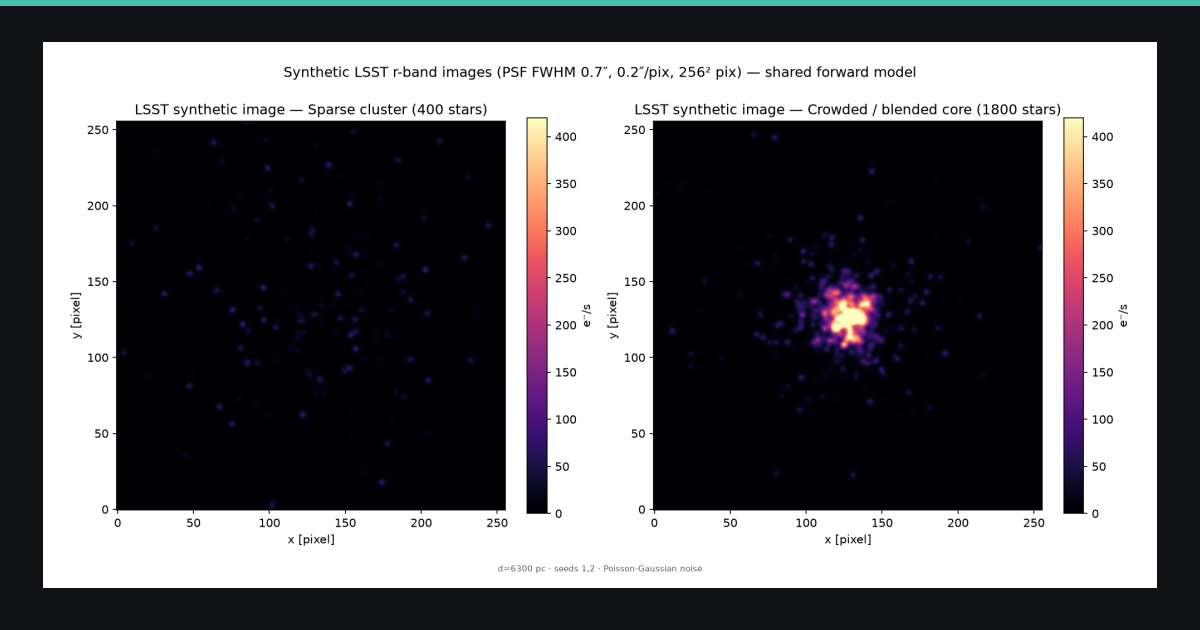
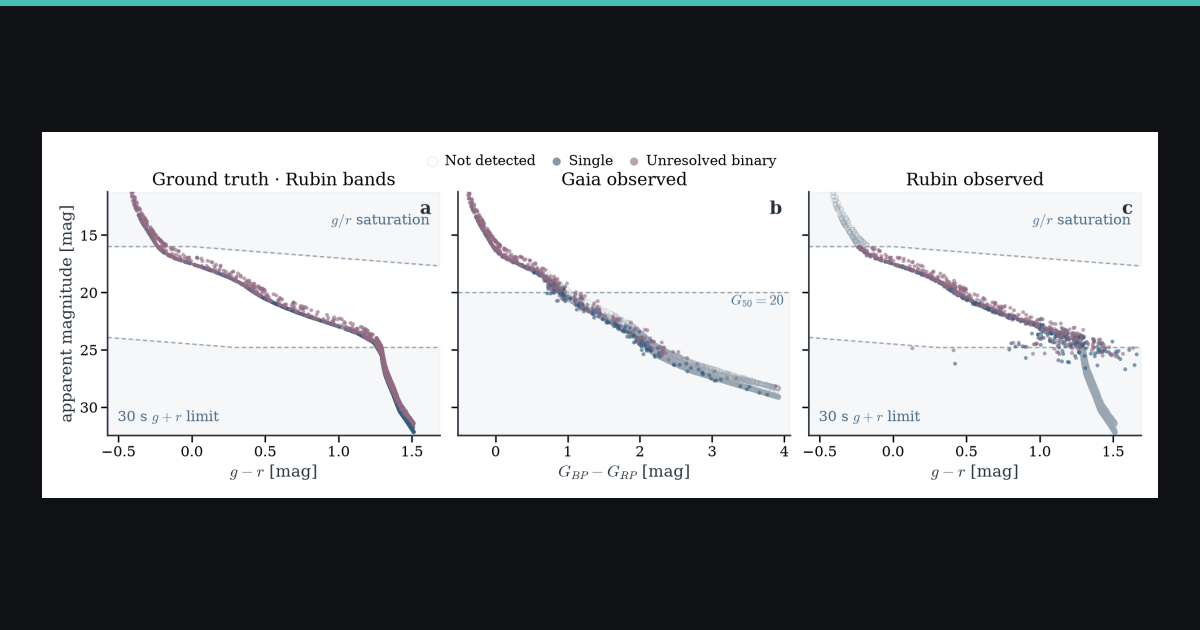
Software: fix the pipeline diagram; swap in the current figures
The diagram nodes were 261x81px carrying four things: a 10.5px stage
label, a 24.8px name, an "Active build" badge identical on all five, and
up to 35 characters of maturity text at 11.2px. Badge and maturity both
duplicated the list directly below, where they get real space and a
readiness meter. A diagram shows flow and order; nodes are now stage +
name only, at 95px with the stage label raised 0.66 -> 0.76rem.

Also repairs .eco__node-link, whose rule body was destroyed by an
over-broad regex when the foundation card was removed — its selectors
were left dangling and silently merged into .eco__stage, so the nodes
had no card styling at all. That was self-inflicted, in this session.

Captions now span the figure width rather than a 62ch measure.

Figures replaced with the current versions:
- gravax: the superseded 2518x1888 render is gone; the current 2512x778
  layout replaces it.
- fluxax: synthetic LSST images replaced by truth vs Gaia vs Rubin
  colour-magnitude diagrams, which show selection, saturation and the
  binary sequence in one view — a better fit for "Observables".

diff --git a/src/data/research.ts b/src/data/research.ts
@@ -97,8 +97,8 @@ export const researchQuestions: ResearchQuestion[] = [
       caption:
         "A differentiable model has to earn the word. Here a 512-star cluster with a hard massive binary is evolved for three crossing times — the binary hardens, the cluster expands — and the gradients of that whole calculation match finite differences to about one part in a billion. That is what makes the model invertible against data rather than merely runnable.",
       credit: "A. L. Rosen · Jaxstro (gravax). Preliminary.",
-      width: 2518,
-      height: 1888,
+      width: 2512,
+      height: 778,
       preliminary: true,
     },
   },